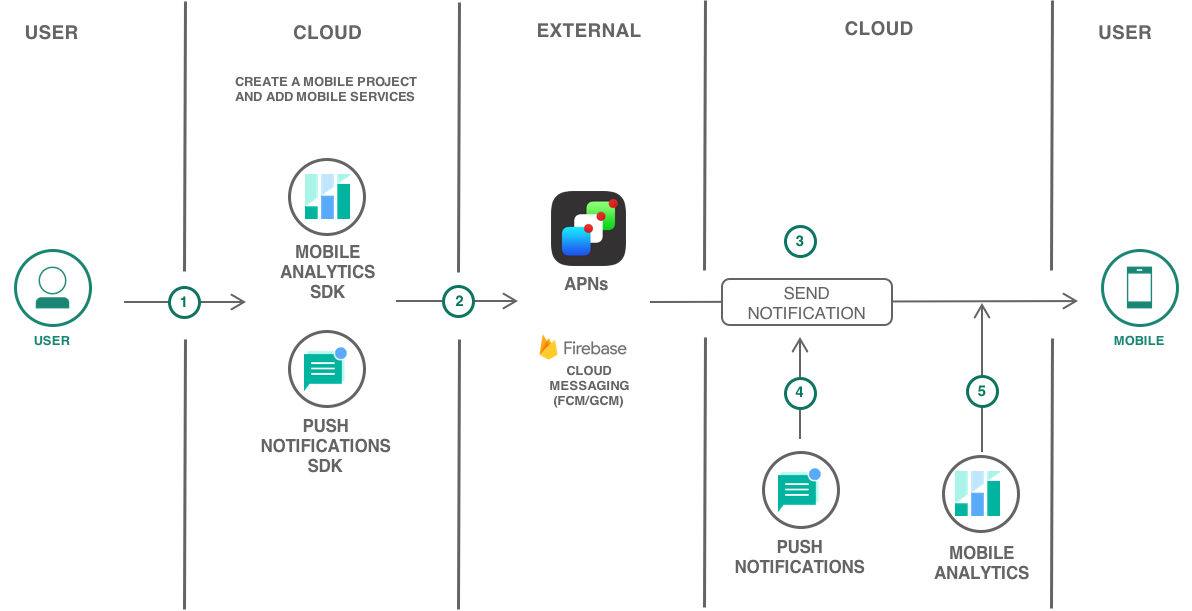
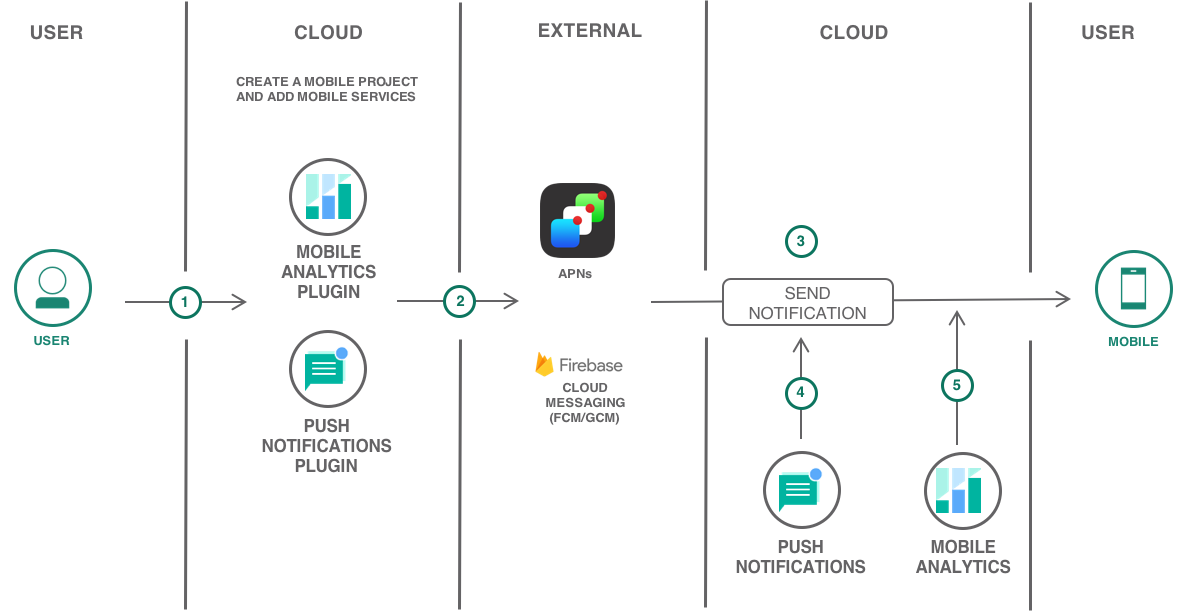
Solution 15 updated

diff --git a/hybrid-mobile-push-analytics.md b/hybrid-mobile-push-analytics.md
@@ -1,7 +1,7 @@
 ---
 copyright:
   years: 2017
-lastupdated: "2017-12-11"
+lastupdated: "2017-12-13"
 
 ---
 
@@ -38,7 +38,7 @@ This tutorial uses the following products:
 ## Before you begin
 {: #prereqs}
 
-- Cordova [CLI![External link icon](https://console.bluemix.net/docs/api/content/icons/launch-glyph.svg?lang=en)](https://cordova.apache.org/docs/en/latest/guide/cli/) for adding plugins.
+- Cordova [CLI![External link icon](https://console.bluemix.net/docs/api/content/icons/launch-glyph.svg?lang=en)](https://cordova.apache.org/docs/en/latest/guide/cli/) for adding plugins and Cordova-iOS [Prerequisites](https://cordova.apache.org/docs/en/latest/guide/platforms/ios/index.html).
 - Google account to log into Firebase console for Sender ID and Server API Key.
 - [Apple Developers![External link icon](https://console.bluemix.net/docs/api/content/icons/launch-glyph.svg?lang=en)](https://developer.apple.com/) account to send remote notifications from Push Notifications service instance on IBM Cloud (the provider) to iOS devices and applications.
 - Xcode and Android Studio for importing and enhancing your code.
@@ -47,7 +47,7 @@ This tutorial uses the following products:
 ## Create Cordova mobile project from starter kit
 {: #get_code}
 The IBM Cloud Mobile Dashboard allows you to fast-track your mobile app development by creating your project from a Starter Kit.
-1. Navigate to [Mobile Dashboard](https://console.bluemix.net/developer/mobile/dashboard)
+1. Navigate to [Mobile Dashboard](https://console.bluemix.net/developer/mobile/dashboard).
 2. Click on **Starter Kits** and scroll down to select the **Basic** Starter Kit.
     ![](images/solution6/mobile_dashboard.png)
 3. Enter a project name, this can be your app name as well.
@@ -84,17 +84,19 @@ In the next step, you will obtain Firebase Cloud Messaging (FCM) and Apple Push 
 
 If you haven't downloaded the code yet, then use IBM Cloud Mobile dashboard to get the code by clicking on the **Download Code** button under Projects > **Your Mobile Project**.
 
-1. On a terminal or command prompt, navigate to the downloaded project and run the below commands one after another
+**Note:** BMSAnalytics is part of BMSCore Plugin.
+
+1. On a terminal or command prompt, navigate to the downloaded project and run the below commands one after another. **This is specific to Android**
 
     ```
     cordova plugin add cordova-android-support-gradle-release --variable ANDROID_SUPPORT_VERSION=26.+
     ```
-    Cordova plugin to align various versions of the Android Support libraries specified by other plugins to a specific version
+    Cordova plugin to align various versions of the Android Support libraries specified by other plugins to a specific version.
     {:tip}
     ```
     cordova plugin add cordova.plugins.diagnostic
     ```
-    Cordova plugin to manage device settings
+    Cordova plugin to manage device settings.
     {:tip}
     ```
     cordova platform rm android
@@ -102,15 +104,138 @@ If you haven't downloaded the code yet, then use IBM Cloud Mobile dashboard to g
     ```
     cordova platform add android
     ```
+
+2. To update bms-push (BMSPush) and bms-core (BMSCore) plugins, run the below commands
     ```
-    cordova plugin rm bms-push
+    $ cordova plugin rm bms-push
     ```
     ```
-    cordova plugin add bms-push
+    $ cordova plugin add bms-push
     ```
 
-   
+3. To update Cordova-iOS to the latest version, run the below commands 
 
-   
+      ```
+      cordova platform rm ios
+      ```
+      ```
+      cordova platform add ios
+      ```
 
-   
+4. To launch the app on an Android emulator, run the below command
+
+   ```
+   $ cordova run android
+   ```
+
+5. To preview the app in the iOS simulator,
+
+   - `cd platforms/ios` and run `pod update`
+   - Open the workspace file  (`platforms/ios/{YOUR_PROJECT_NAME}.xcworkspace`) from Xcode, *or* from the command line:
+   ```
+   $ open {YOUR_PROJECT_NAME}.xcworkspace/
+   ```
+
+6. (Optional) Update `swift language version` for main (BasicCordovaApp) and Pods projects as shown below
+
+   ![xcode](images/solution15/xcode.png)
+
+   Make the above change only if you see this error - The “Swift Language Version” (SWIFT_VERSION) build setting must be set to a supported value for targets which use Swift. This setting can be set in the build settings editor.
+   {:tip}
+
+7. Open the code in an IDE of your choice and navigate to `/www/js/index.js`and comment the below code as you won't require this in the current scenario.
+
+   ```
+    mfpLoaded: function() {      
+        }
+   ```
+##Instrumenting the app to use Mobile Analytics.
+
+1. Go to your Mobile dashboard > Projects > Cordova Project, Click on **Show** to unveil Push and Analytics service credentials.
+
+   ![mobile dashboard](images/solution15/mobile_dashboard.png)
+
+2. In `index.js`, under `onDeviceReady` function, update the value of `applicationName`with your app name and replace the value of `analyticsApiKey` with Analytics **apiKey**. 
+
+3. Just after **BMSAnalytics.initialize** call, add the below code to send analytics data to server
+
+      ```
+      BMSAnalytics.setUserIdentity("{YOUR_USER_IDENTITY}");
+      BMSAnalytics.send();
+      ```
+4. For logging, add the below code after **BMSLogger.setLogLevel** call
+   ```
+   BMSLogger.send();
+   ```
+   For advanced Analytics and logging capabilities, Refer [Gathering usage Analytics](https://github.com/ibm-bluemix-mobile-services/bms-clientsdk-cordova-plugin-core#using-bmsanalytics) and [logging](https://github.com/ibm-bluemix-mobile-services/bms-clientsdk-cordova-plugin-core#using-bmslogger)
+   {:tip}
+
+##Configure, send and monitor push notifications
+
+1. In `index.js`, under `onDeviceReady` function, replace the values  `{pushAppGuid}` and
+
+   `{pushClientSecret} `with push service **credentials** - appGuid and clientSecret.
+
+2. Go to your Mobile dashboard > Projects > Cordova Project, Click on the Push Notifications service and follow the below steps.
+
+### APNs - Configure the service instance
+
+To use the Push Notifications service to send notifications, upload the .p12 certificates that you had created in the above Step. This certificate contains the private key and SSL certificates that are required to build and publish your application.
+
+**Note:** After the `.cer` file is in your key chain access, export it to your computer to create a `.p12` certificate.
+
+1. Click on `Push Notifications` under Services section or Click on the three vertical dots next to the Push Notifications service and select `Open dashboard`.
+2. On the Push Notifications Dashboard, you should see `Configure` option under `Manage > Send Notifications`.
+
+To set up APNs on the `Push Notification services` console, complete the steps:
+
+1. Select `Configure` on the Push Notification services Dashboard.
+2. Choose the `Mobile option` to update the information in the APNs Push Credentials form.
+3. Select `Sandbox (development)` or `Production (distribution)` as appropriate and then upload the `p.12` certificate that you have created.
+4. In the Password field, enter the password that is associated with the .p12 certificate file, then click Save.
+
+###FCM - Configure the service instance
+
+1. Select **Mobile** and then update the GCM/FCM Push Credentials tab with the Sender ID/Project number and API Key(Server Key) which you initially created on Firebase console.
+
+2. Click **Save**. The push notifications service is now configured.
+
+###Send push notifications
+
+1. Select **Send Notifications**, and compose a message by choosing a send option. The supported options are device by tag, device id, user id, android devices, IOS devices, web notifications, and all devices.
+   **Note:** When you select the **All Devices** option, all devices subscribed to Push Notifications will receive notifications.
+
+2. In the **Message** field, compose your message. Choose to configure the optional settings as required.
+
+3. Click **Send** and verify that your physical device has received the notification.
+
+###Monitor sent notifications
+
+You can monitor your sent notifications by navigating to **Monitoring** on the Push Notifications Service.
+The IBM Push Notifications service now extends capabilities to monitor the push performance by generating graphs from your user data. You can use the utility to list all the sent push notifications, or to list all the registered devices and to analyze information on a daily, weekly, or monthly basis.
+ ![](images/solution6/monitoring_messages.png)
+
+## Monitoring the app with Mobile Analytics.
+
+You can record application logs and monitor data with the Mobile Analytics Client SDK. Developers can control when to send this data to the Mobile Analytics Service. When data is delivered to Mobile Analytics, you can use the Mobile Analytics console to get analytics insights about your mobile applications, devices, and application logs.
+1. Open the **Mobile Analytics** service from the mobile project you created or click on the three vertical dots next to the service and select **Open Dashboard**.
+2. You should see LIVE Users, Sessions and other App Data by disabling **Demo Mode**. You can filter the analytics information by
+   - Date.
+   - Application.
+   - Operating System.
+   - Version of the app.
+
+     ![](images/solution15/cordova_mobile_analytics.png)
+3. [Click here](https://console.bluemix.net/docs/services/mobileanalytics/app-monitoring.html#monitoringapps) to set alerts, monitor app crashes, and monitor network requests.
+
+## Related Content
+
+[Customize the Push Notifications settings](https://console.bluemix.net/docs/services/mobilepush/push_step_4.html#push_step_4_Android)
+
+[Tag-based notifications](https://console.bluemix.net/docs/services/mobilepush/push_step_4_nf_tag.html#tag_based_notifications)
+
+[Push Notifications REST APIs](https://console.bluemix.net/docs/services/mobilepush/push_restapi.html#push-api-rest)
+
+[Security in Push Notifications](https://console.bluemix.net/docs/services/mobilepush/push_security.html#overview-push)
+
+[Exporting Analytics data to Db2 Warehouse](https://console.bluemix.net/docs/services/mobileanalytics/app-monitoring.html#dashdb) 

diff --git a/android-mobile-push-analytics.md b/android-mobile-push-analytics.md
@@ -54,7 +54,7 @@ The IBM Cloud Mobile Dashboard allows you to fast-track your mobile app developm
 5. Click on **Create Project** to scaffold an Android (Java) App.
 6. A new Project will be created under **Projects** tab on the left pane.
     **Note:** Push Notifications and Mobile Analytics Services should be added with the Basic Starter.
-In the next step, you will obtain Firebase Cloud Messaging (FCM) credentials.
+    In the next step, you will obtain Firebase Cloud Messaging (FCM) credentials.
 
 ## Obtain FCM credentials
 
@@ -106,7 +106,7 @@ The downloaded code comes with **Push Notifications** and **Mobile Analytics** c
 5. The required permissions are all inside the `AndroidManifest.xml` file and dependencies. Push and Analytics are included in **build.gradle (Module: app)**.
 6. **Firebase Cloud Messaging (FCM)** intent service and intent filters for the `RECEIVE` and `REGISTRATION` event notifications are included in `AndroidManifest.xml`
 
-## Instrumenting the app to use Mobile Analytics.
+## Instrumenting the app to use Mobile Analytics
 
 1. In Android Studio, navigate to `MainActivity.java`. You should see the following `import` statements already added
 2. The code includes `BMSClient` initialization code with the `Region` parameter. In the initializer, the `Region` value specifies which IBM Cloud deployment you are using, for example, `BMSClient.REGION_US_SOUTH` and `BMSClient.REGION_UK`.
@@ -126,7 +126,7 @@ For advanced Analytics and logging capabilities, Refer [Gathering usage Analytic
 {:tip}
 
 
-## Configure, send and monitor push notifications.
+## Configure, send and monitor push notifications
 
 1. Push notifications SDK is already imported into the project and Push initialization code can be found in `MainActivity.java` file.
 

diff --git a/ios-mobile-push-analytics.md b/ios-mobile-push-analytics.md
@@ -174,7 +174,7 @@ The downloaded code comes with **Push Notifications** and **Mobile Analytics** C
 
 
 
-## Instrumenting the app to use Mobile Analytics.
+## Instrumenting the app to use Mobile Analytics
 
 1. Open `.xcworkspace` in Xcode and navigate to `AppDelegate.swift`.
   **Note:** Ensure that you always open the new Xcode workspace, instead of the original Xcode project file: `MyApp.xcworkspace`.
@@ -207,10 +207,10 @@ The downloaded code comes with **Push Notifications** and **Mobile Analytics** C
    {:tip}
 
 
-## Send and monitor push notifications.
+## Send and monitor push notifications
 
 1. Push initialization code (under `func application`) and notification registration code can be found in `AppDelegate.swift`. Provide an unique USER_ID(Optional).
-2. Run the app on a physical device as notifications can't be sent to a iPhone Simulator.
+2. Run the app on a physical device as notifications can't be sent to an iPhone Simulator.
 3. Open Push Notifications service under `Mobile Services` > **Existing services**  on IBM Cloud Mobile dashboard and to send basic push notifications, complete the following steps:
   * Select `Send Notifications`, and compose a message by choosing a Send to option. The supported options are Device by Tag, Device Id, User Id, Android devices, iOS devices, Web Notifications, and All Devices.
 
